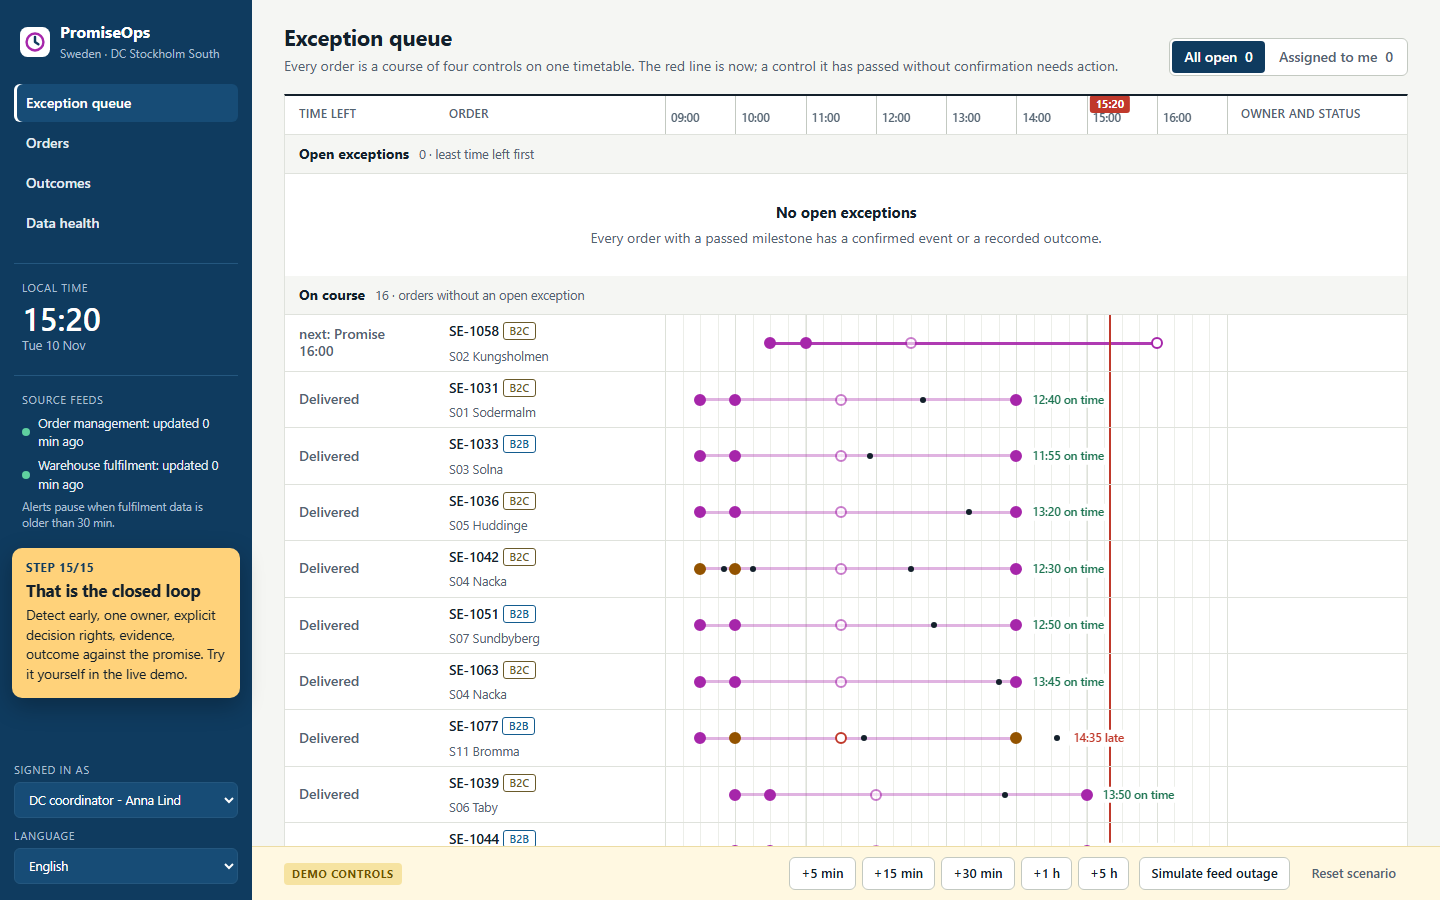
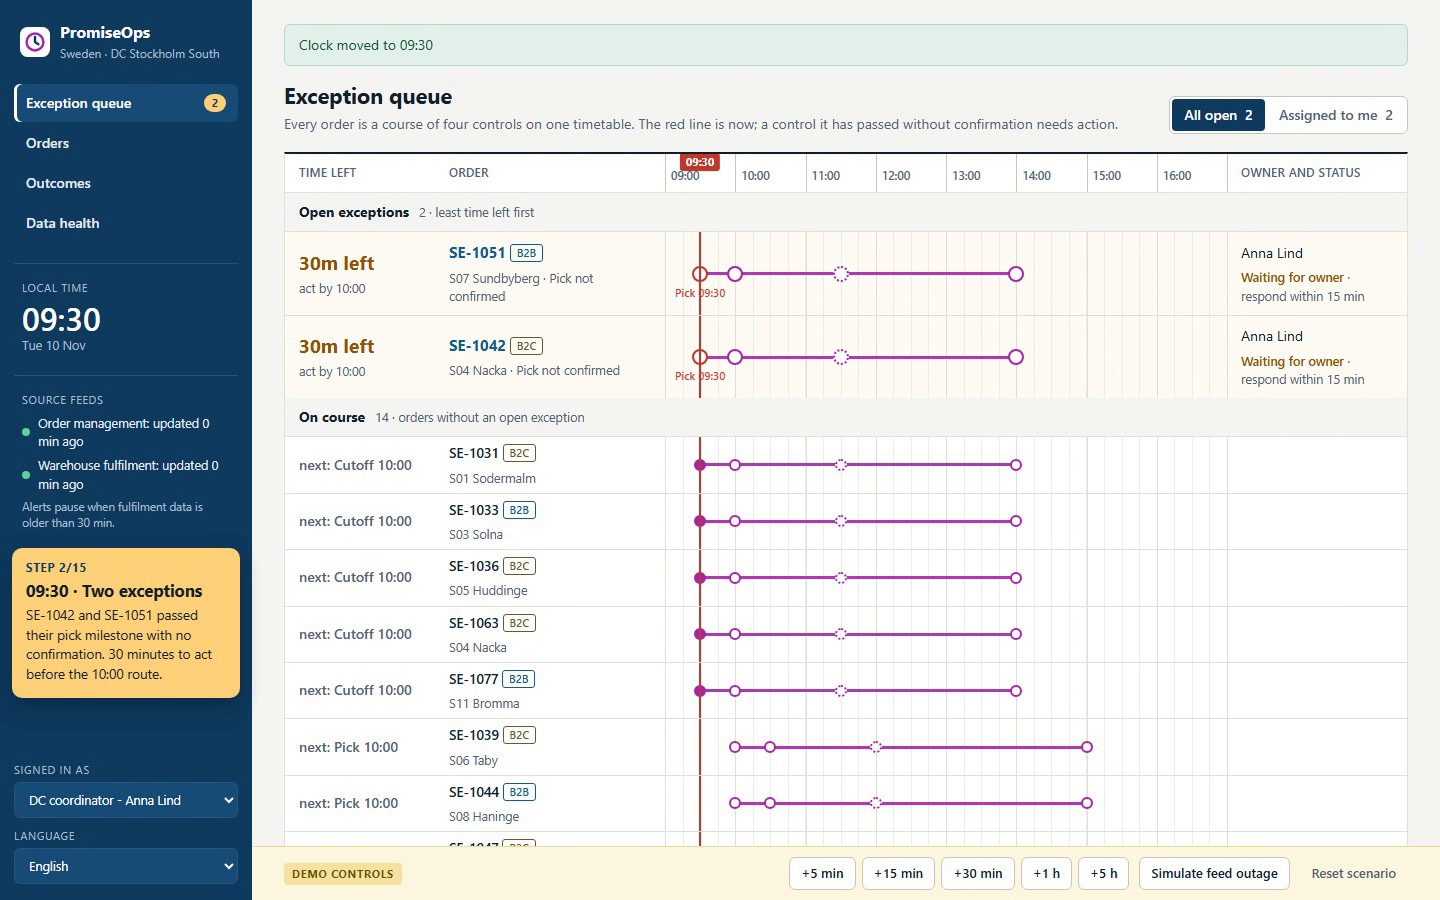
Landing: one section per scroll step; fit the walkthrough video to its screen
The video overflowed its one-screen section and slid under the next
heading; it now fills the remaining space at its own aspect ratio. A small
pager moves one section (or half of a two-screen section) per wheel
notch or paging key on desktop; touch keeps native scrolling with
proximity snap; reduced motion jumps instantly. Posters now show 09:30.

diff --git a/app/static/landing/pager.js b/app/static/landing/pager.js
@@ -1,0 +1,48 @@
+// One screen per scroll step on desktop: a wheel gesture or paging key moves to the next or
+// previous section top (and the second half of two-screen sections). Touch devices keep native
+// scrolling with CSS proximity snap. Reduced motion jumps instantly.
+(() => {
+  const desktop = window.matchMedia("(min-width: 1024px) and (min-height: 640px) and (pointer: fine)");
+  const reduce = window.matchMedia("(prefers-reduced-motion: reduce)");
+  let busy = false;
+
+  function points() {
+    const tops = [];
+    document.querySelectorAll("main > section, footer.closing, body > footer").forEach((s) => {
+      const top = Math.round(s.getBoundingClientRect().top + window.scrollY);
+      tops.push(top);
+      const screens = Math.round(s.offsetHeight / window.innerHeight);
+      for (let i = 1; i < screens; i++) tops.push(top + i * window.innerHeight);
+    });
+    const max = document.documentElement.scrollHeight - window.innerHeight;
+    return [...new Set(tops.map((t) => Math.min(t, max)))].sort((a, b) => a - b);
+  }
+
+  function go(dir) {
+    const y = window.scrollY;
+    const list = points();
+    const target = dir > 0 ? list.find((t) => t > y + 4) : [...list].reverse().find((t) => t < y - 4);
+    if (target === undefined) return false;
+    busy = true;
+    window.scrollTo({ top: target, behavior: reduce.matches ? "auto" : "smooth" });
+    window.setTimeout(() => { busy = false; }, reduce.matches ? 120 : 750);
+    return true;
+  }
+
+  window.addEventListener("wheel", (e) => {
+    if (!desktop.matches || e.ctrlKey || Math.abs(e.deltaY) < 4) return;
+    e.preventDefault();
+    if (!busy) go(e.deltaY > 0 ? 1 : -1);
+  }, { passive: false });
+
+  window.addEventListener("keydown", (e) => {
+    if (!desktop.matches || e.altKey || e.ctrlKey || e.metaKey) return;
+    const el = document.activeElement;
+    if (el && (el.isContentEditable || /^(INPUT|TEXTAREA|SELECT|VIDEO)$/.test(el.tagName))) return;
+    const down = ["PageDown", "ArrowDown", " "].includes(e.key) && !e.shiftKey;
+    const up = ["PageUp", "ArrowUp"].includes(e.key) || (e.key === " " && e.shiftKey);
+    if (!down && !up) return;
+    e.preventDefault();
+    if (!busy) go(down ? 1 : -1);
+  });
+})();

diff --git a/app/templates/landing.html b/app/templates/landing.html
@@ -140,9 +140,11 @@
           <a class="link" href="/app">{{ _('Try the same steps yourself') }}</a>
         </div>
       </div>
+      <div class="fill walk-fill">
       <video class="walk-video" controls preload="metadata" playsinline poster="/static/landing/demo-{{ lang }}-poster.png" aria-label="{{ _('Recorded walkthrough of the PromiseOps demo with step notes') }}">
         <source src="/static/landing/demo-{{ lang }}.webm" type="video/webm">
       </video>
+      </div>
     </div>
   </section>
 
@@ -461,5 +463,6 @@
 <script type="module" src="/static/landing/assets/system.js"></script>
 <script type="module" src="/static/landing/assets/motion/motion.js"></script>
 <script type="module" src="/static/landing/assets/layout/layout.js"></script>
+<script src="/static/landing/pager.js" defer></script>
 </body>
 </html>

diff --git a/app/static/landing/landing.css b/app/static/landing/landing.css
@@ -232,4 +232,10 @@
 @media (max-width: 639px) { .hero-win .pt-head > div { display: none; } }
 
 /* Recorded walkthrough */
-.walk-video { display: block; width: 100%; aspect-ratio: 1440 / 900; margin-top: 32px; border: 1px solid var(--pt-line-2); border-radius: 12px; background: #0f3b5f; }
+.walk-fill { display: flex; justify-content: center; align-items: flex-start; margin-top: 28px; }
+.walk-video { display: block; height: 100%; width: auto; max-width: 100%; aspect-ratio: 1440 / 900; object-fit: contain; border: 1px solid var(--pt-line-2); border-radius: 12px; background: #0f3b5f; }
+@media (max-width: 1023px) { .walk-video { width: 100%; height: auto; } }
+
+/* One section per scroll step */
+html { scroll-snap-type: y proximity; }
+main > section, footer.closing, body > footer { scroll-snap-align: start; }
